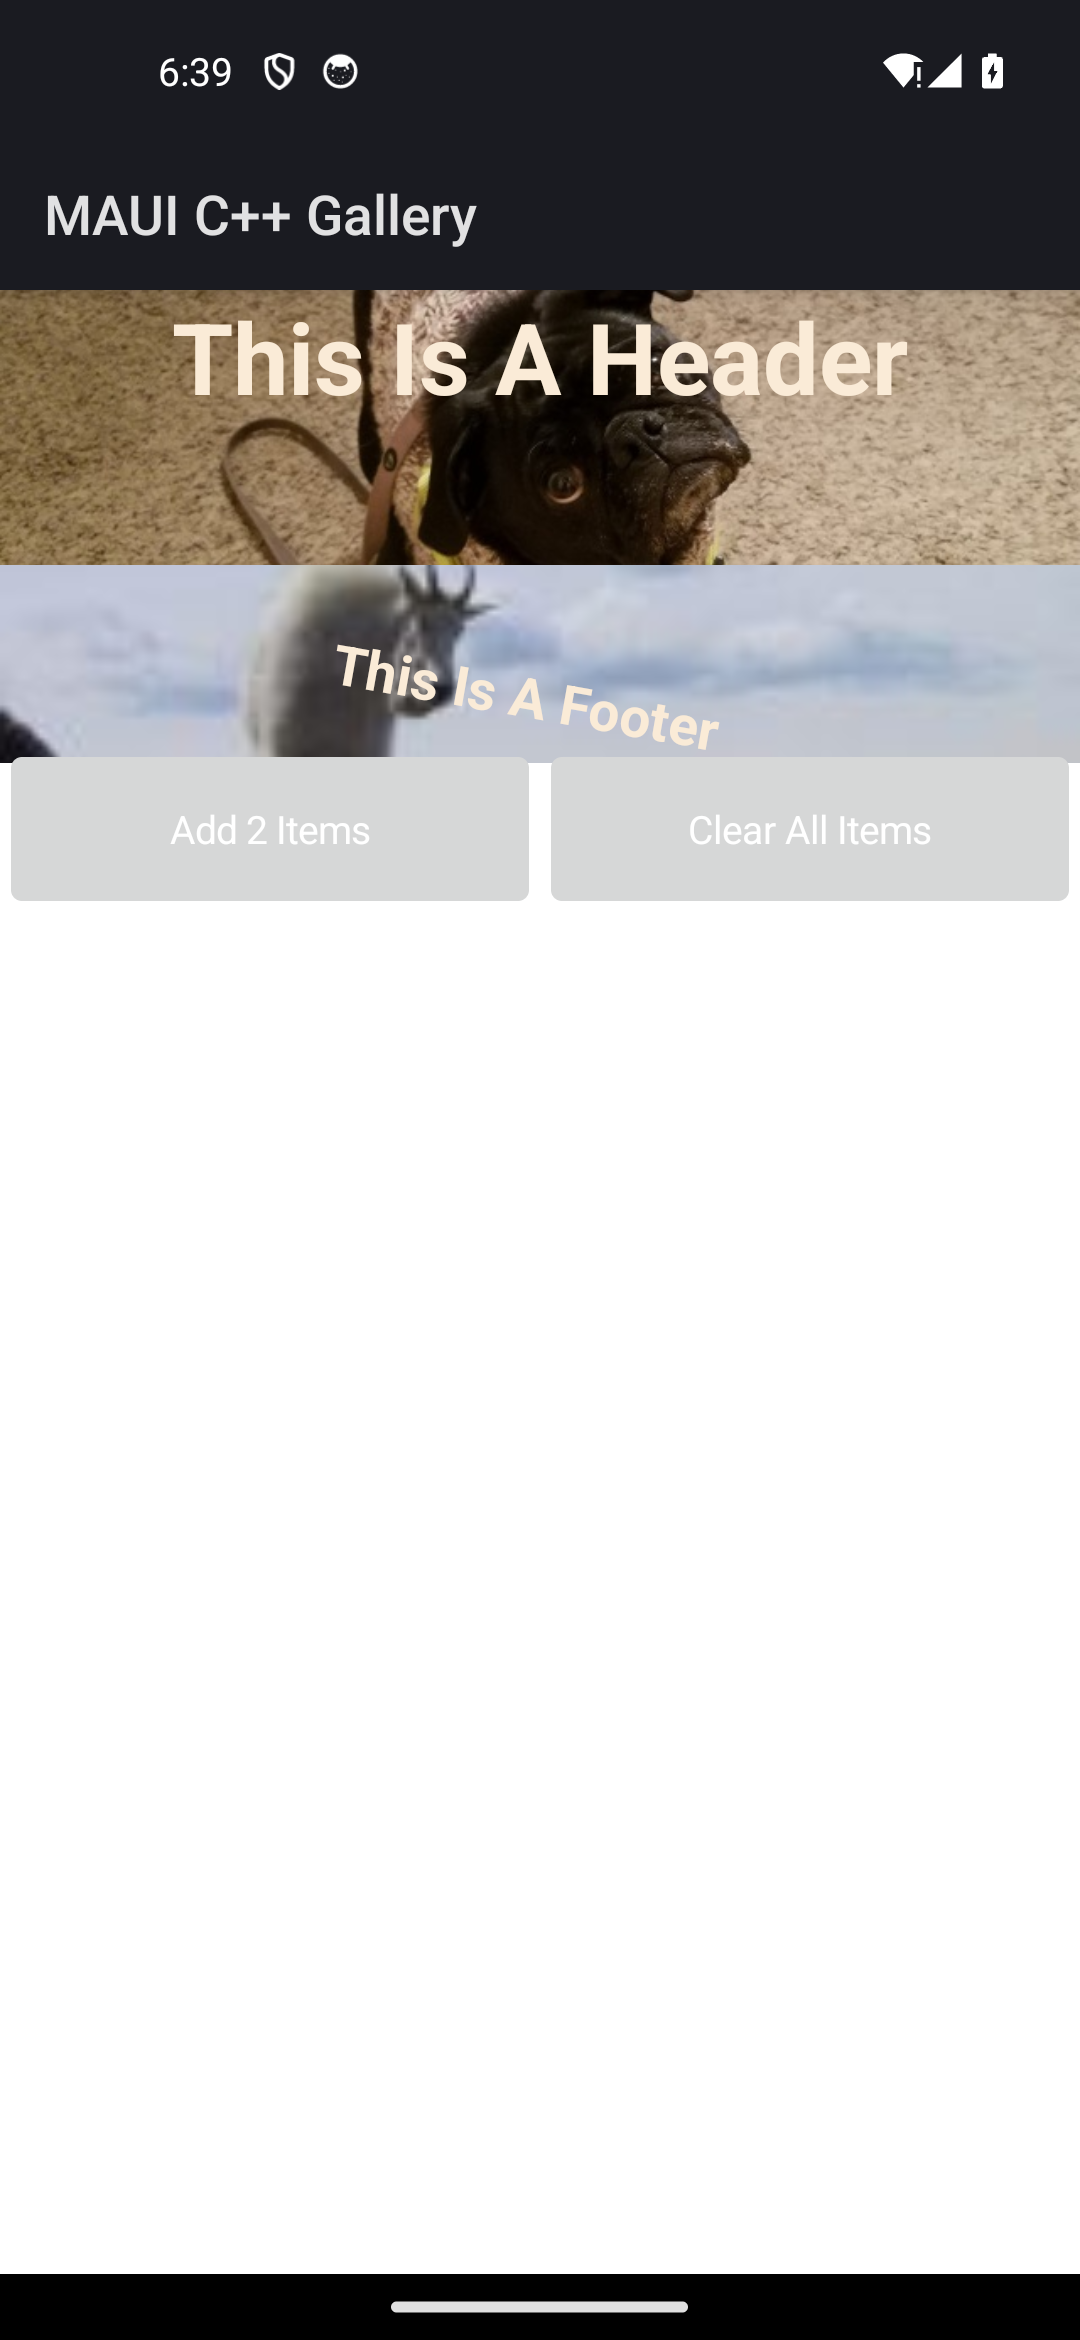
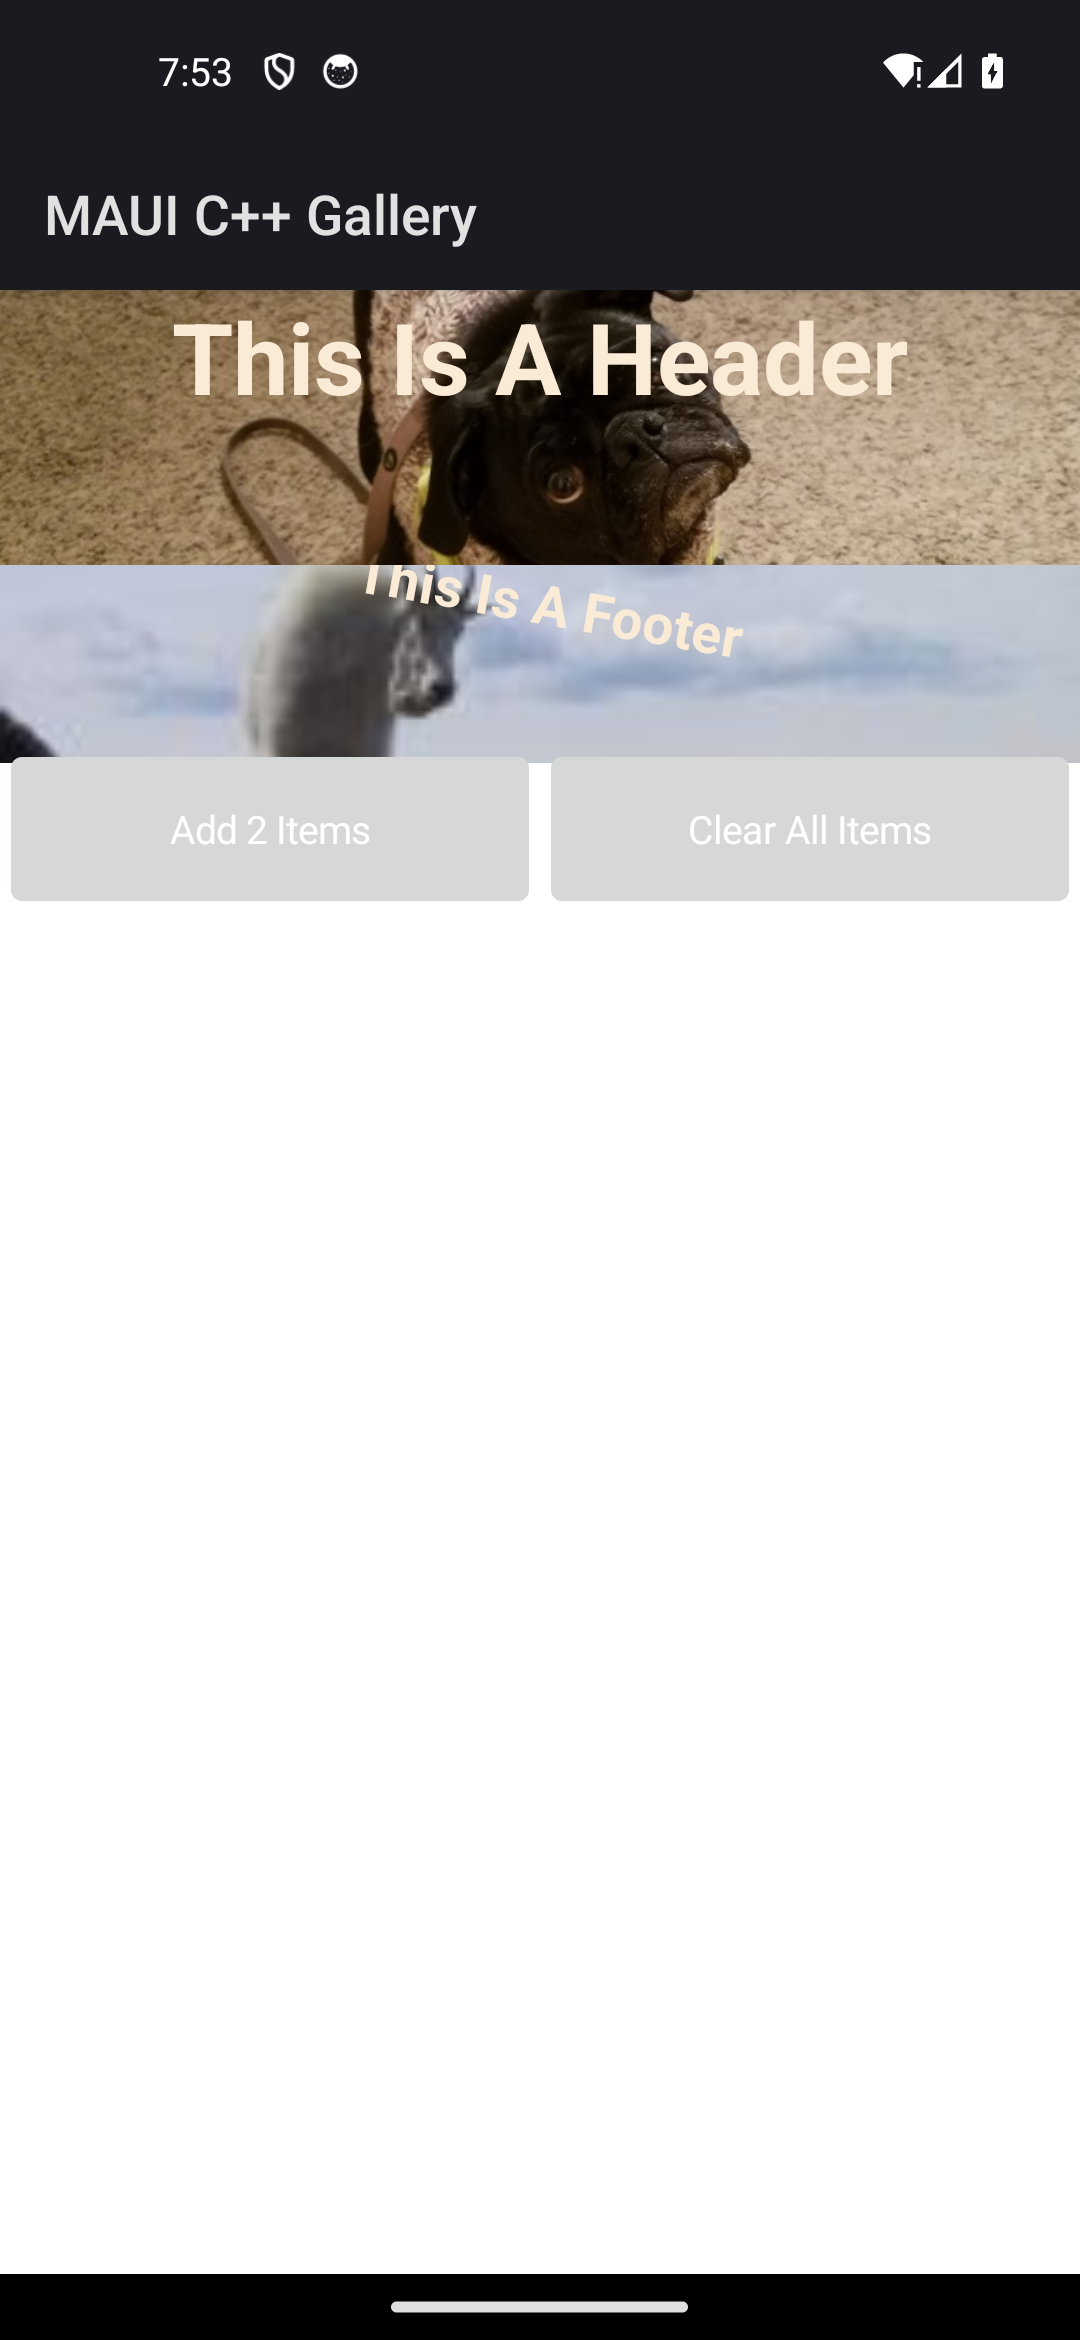
fix(android): re-apply label render transform post-layout so rotated CV footer pivots about its center (header_footer_grid parity)
The footer Label of header_footer_grid / header_footer_view (Rotation="10") rendered as a
tiny top-left-clipped sliver on Android instead of MAUI's center-rotated caption. Root cause
is a transform-realize gap, not a gallery-source gap: the port page already sets
set_rotation(10) + FontSize 20 exactly per HeaderFooterGrid.xaml.

apply_transform (android_view_ops) sets the View pivot from AnchorX/Y × getWidth()/getHeight(),
mirroring MAUI ViewExtensions.Initialize (pivotX = AnchorX × ToPixels(view.Frame.Width)). But the
shared view_mapper's map_transform runs at handler-attach time (ensure_mounted, before the CV
supplemental arrange), when the TextView is still 0×0 — so the pivot resolved to (0,0) and the
label rotated about its top-left corner, swinging out of its band and clipping to a sliver.

Fix mirrors the existing clip/shadow reapply pattern already in label_handler::platform_arrange:
re-push the stored transform_spec after layout(), when getWidth()/getHeight() are the real size,
so the pivot lands at the center. Guarded to the pivot-dependent cases (any rotation, or scale ≠ 1);
identity/translation-only transforms are already correct from the map-time push.

Verified on emulator-5554: header_footer_grid + header_footer_view footer labels now render
rotated ~10 degrees at full 20pt bold antique-white, matching the MAUI reference. Headless
117/117 green (collection|header|label). Derived from src/Core/src/Platform/Android/
ViewExtensions.cs + TransformationExtensions.cs.

Changed region(s): [[0.3056, 0.2184, 0.7028, 0.3432]]

diff --git a/port/cpp/src/platform/android/label_handler.cpp b/port/cpp/src/platform/android/label_handler.cpp
@@ -1307,5 +1307,24 @@ namespace maui::core
             maui::platform::android::apply_shadow(platform->native, platform->shadow, density, frame.width,
                                                   frame.height, 0.0);
         }
+
+        // Re-apply the render transform against the just-laid-out bounds (the same reapply pattern as the clip
+        // and shadow). apply_transform's pivot is AnchorX/Y × the View's laid-out size (mirroring MAUI's
+        // ViewExtensions.Initialize pivotX = AnchorX × ToPixels(view.Frame.Width)); at map time the TextView is
+        // 0×0 (not laid out yet), so the pivot resolved to (0,0) and a rotated/scaled label pivoted about its
+        // top-left corner instead of its center — the header_footer_grid footer Label (Rotation="10") swung out
+        // of its band and was clipped to a sliver. Post-layout getWidth()/getHeight() are the real size, so
+        // re-pushing the stored spec lands the pivot correctly. Only when the transform actually depends on the
+        // pivot (any rotation, or a scale ≠ 1) — a pure translation/identity is pivot-independent and already
+        // correct from the map-time push, so it needs no reapply.
+        {
+            const auto& t = platform->transform;
+            const bool pivot_matters = t.rotation != 0.0 || t.rotation_x != 0.0 || t.rotation_y != 0.0 ||
+                                       t.scale != 1.0 || t.scale_x != 1.0 || t.scale_y != 1.0;
+            if (pivot_matters)
+            {
+                maui::platform::android::apply_transform(platform->native, t);
+            }
+        }
     }
 } // namespace maui::core
